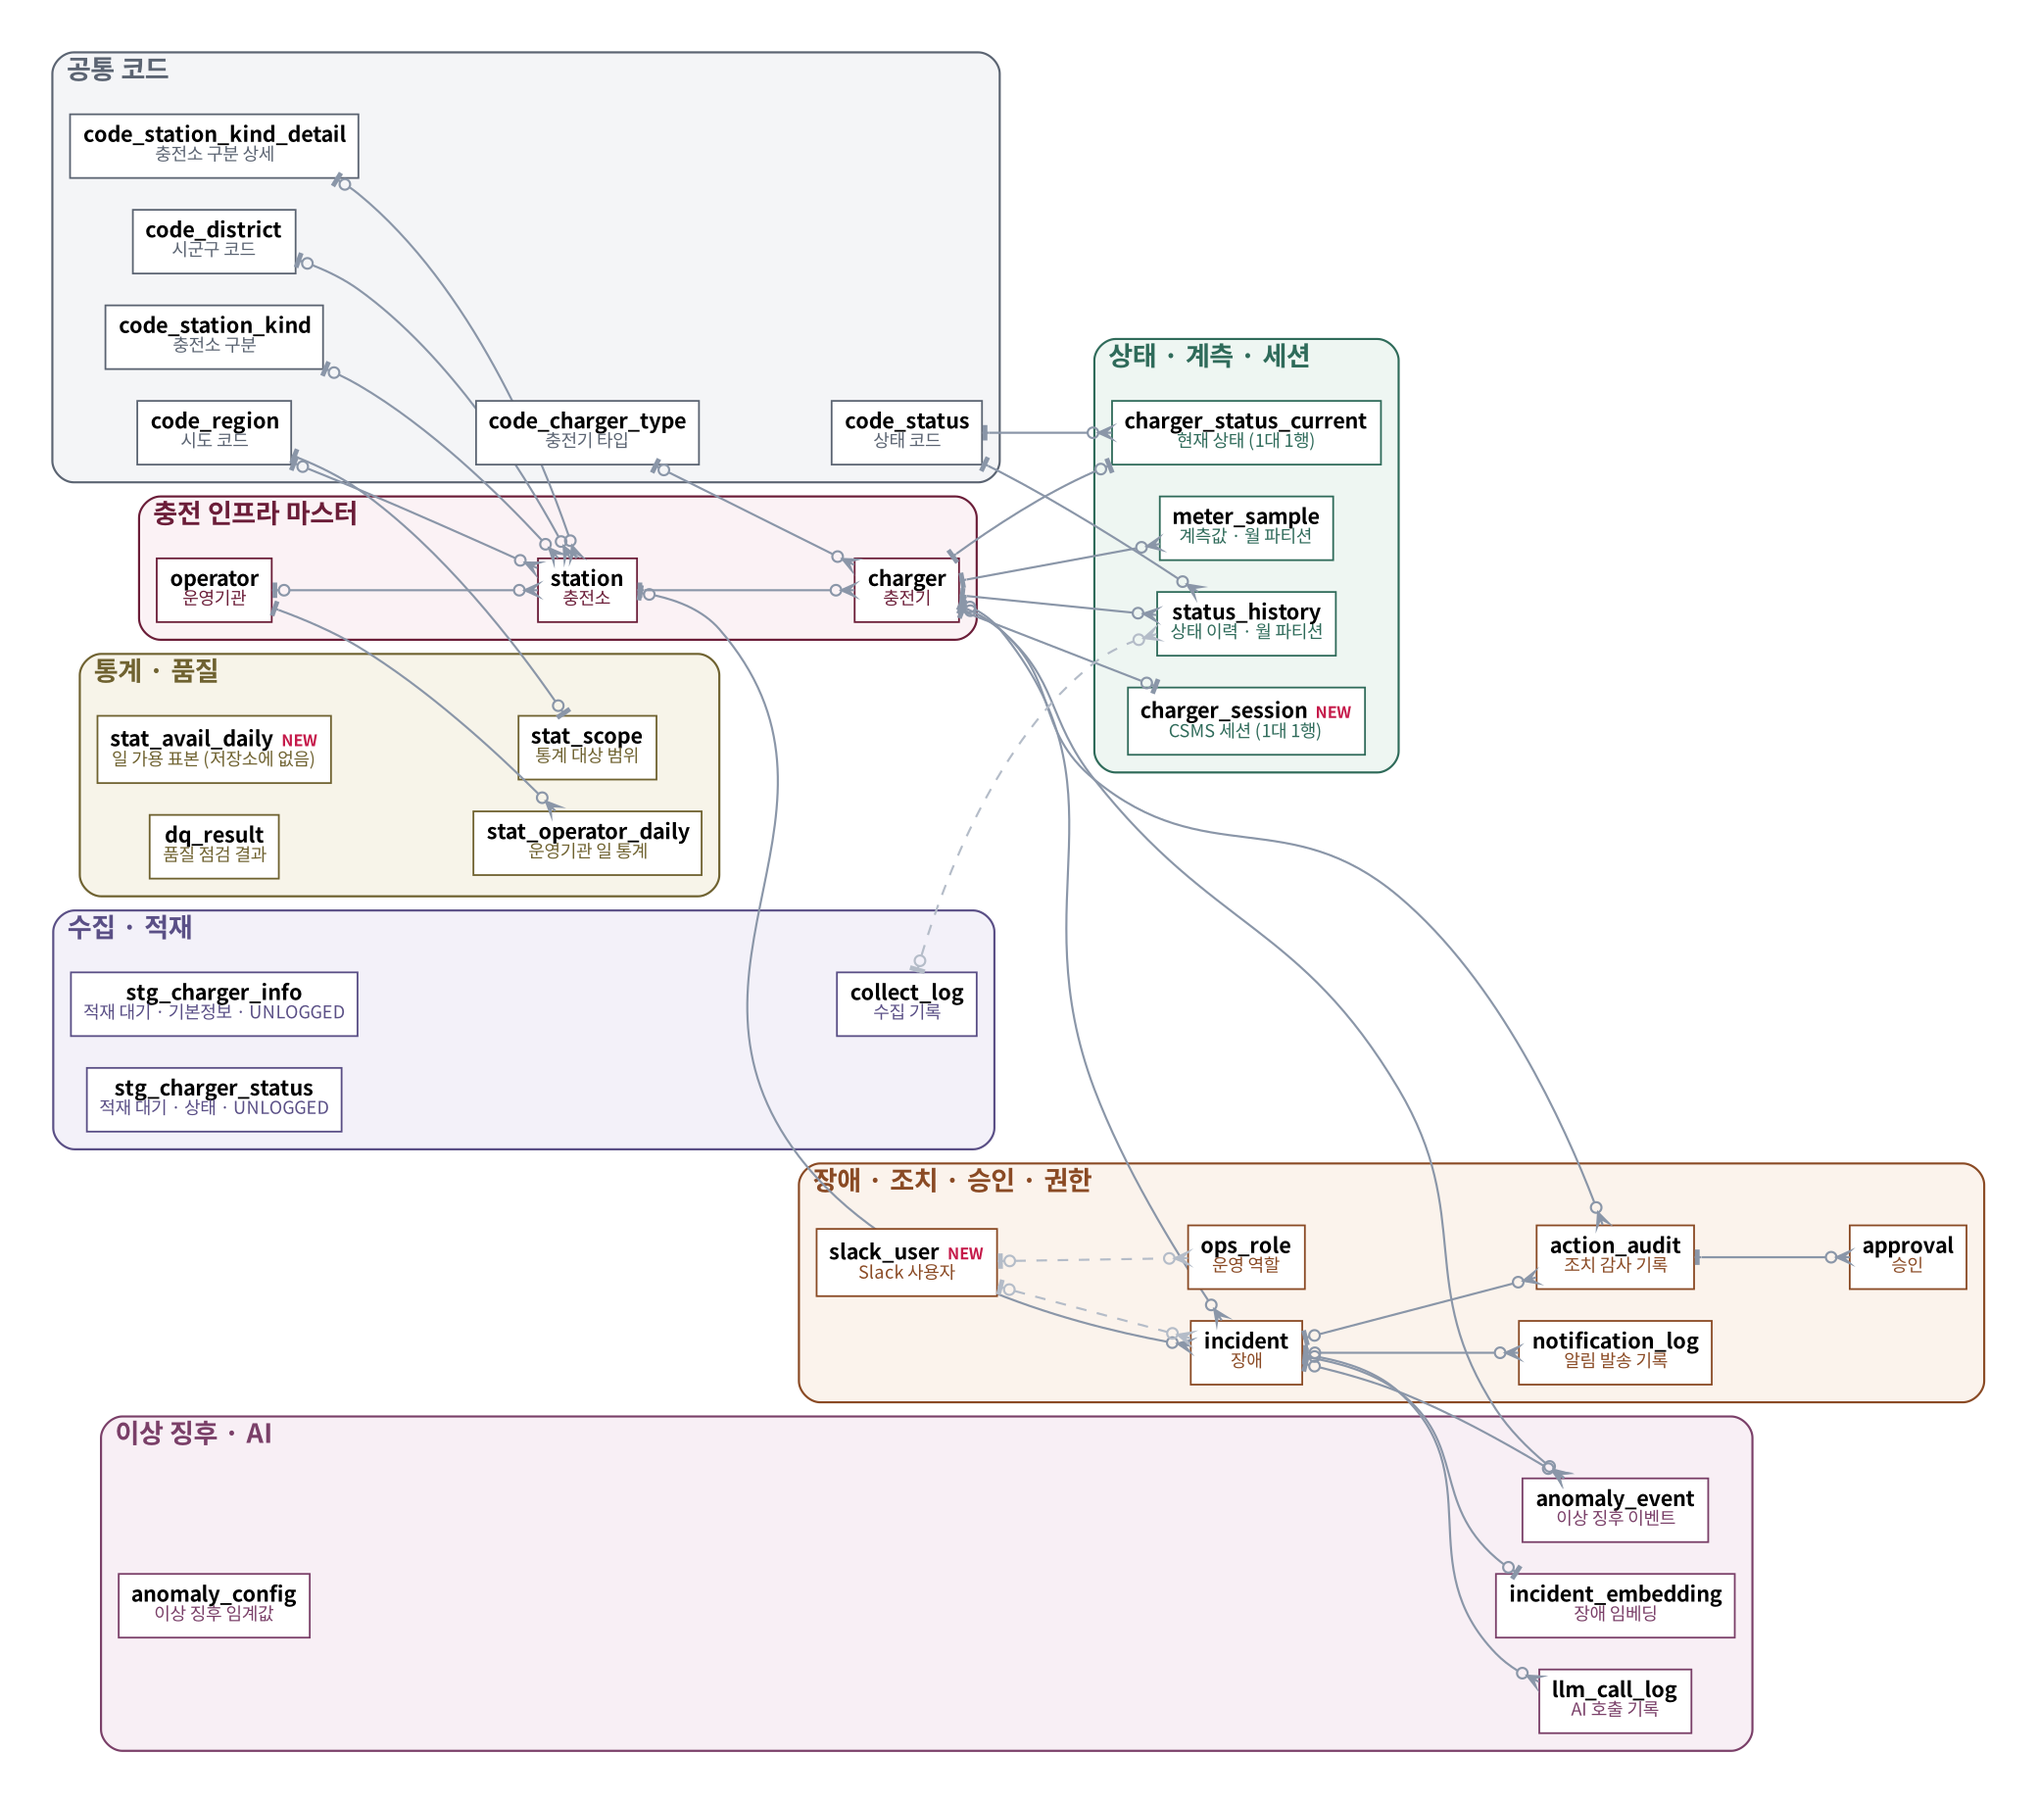
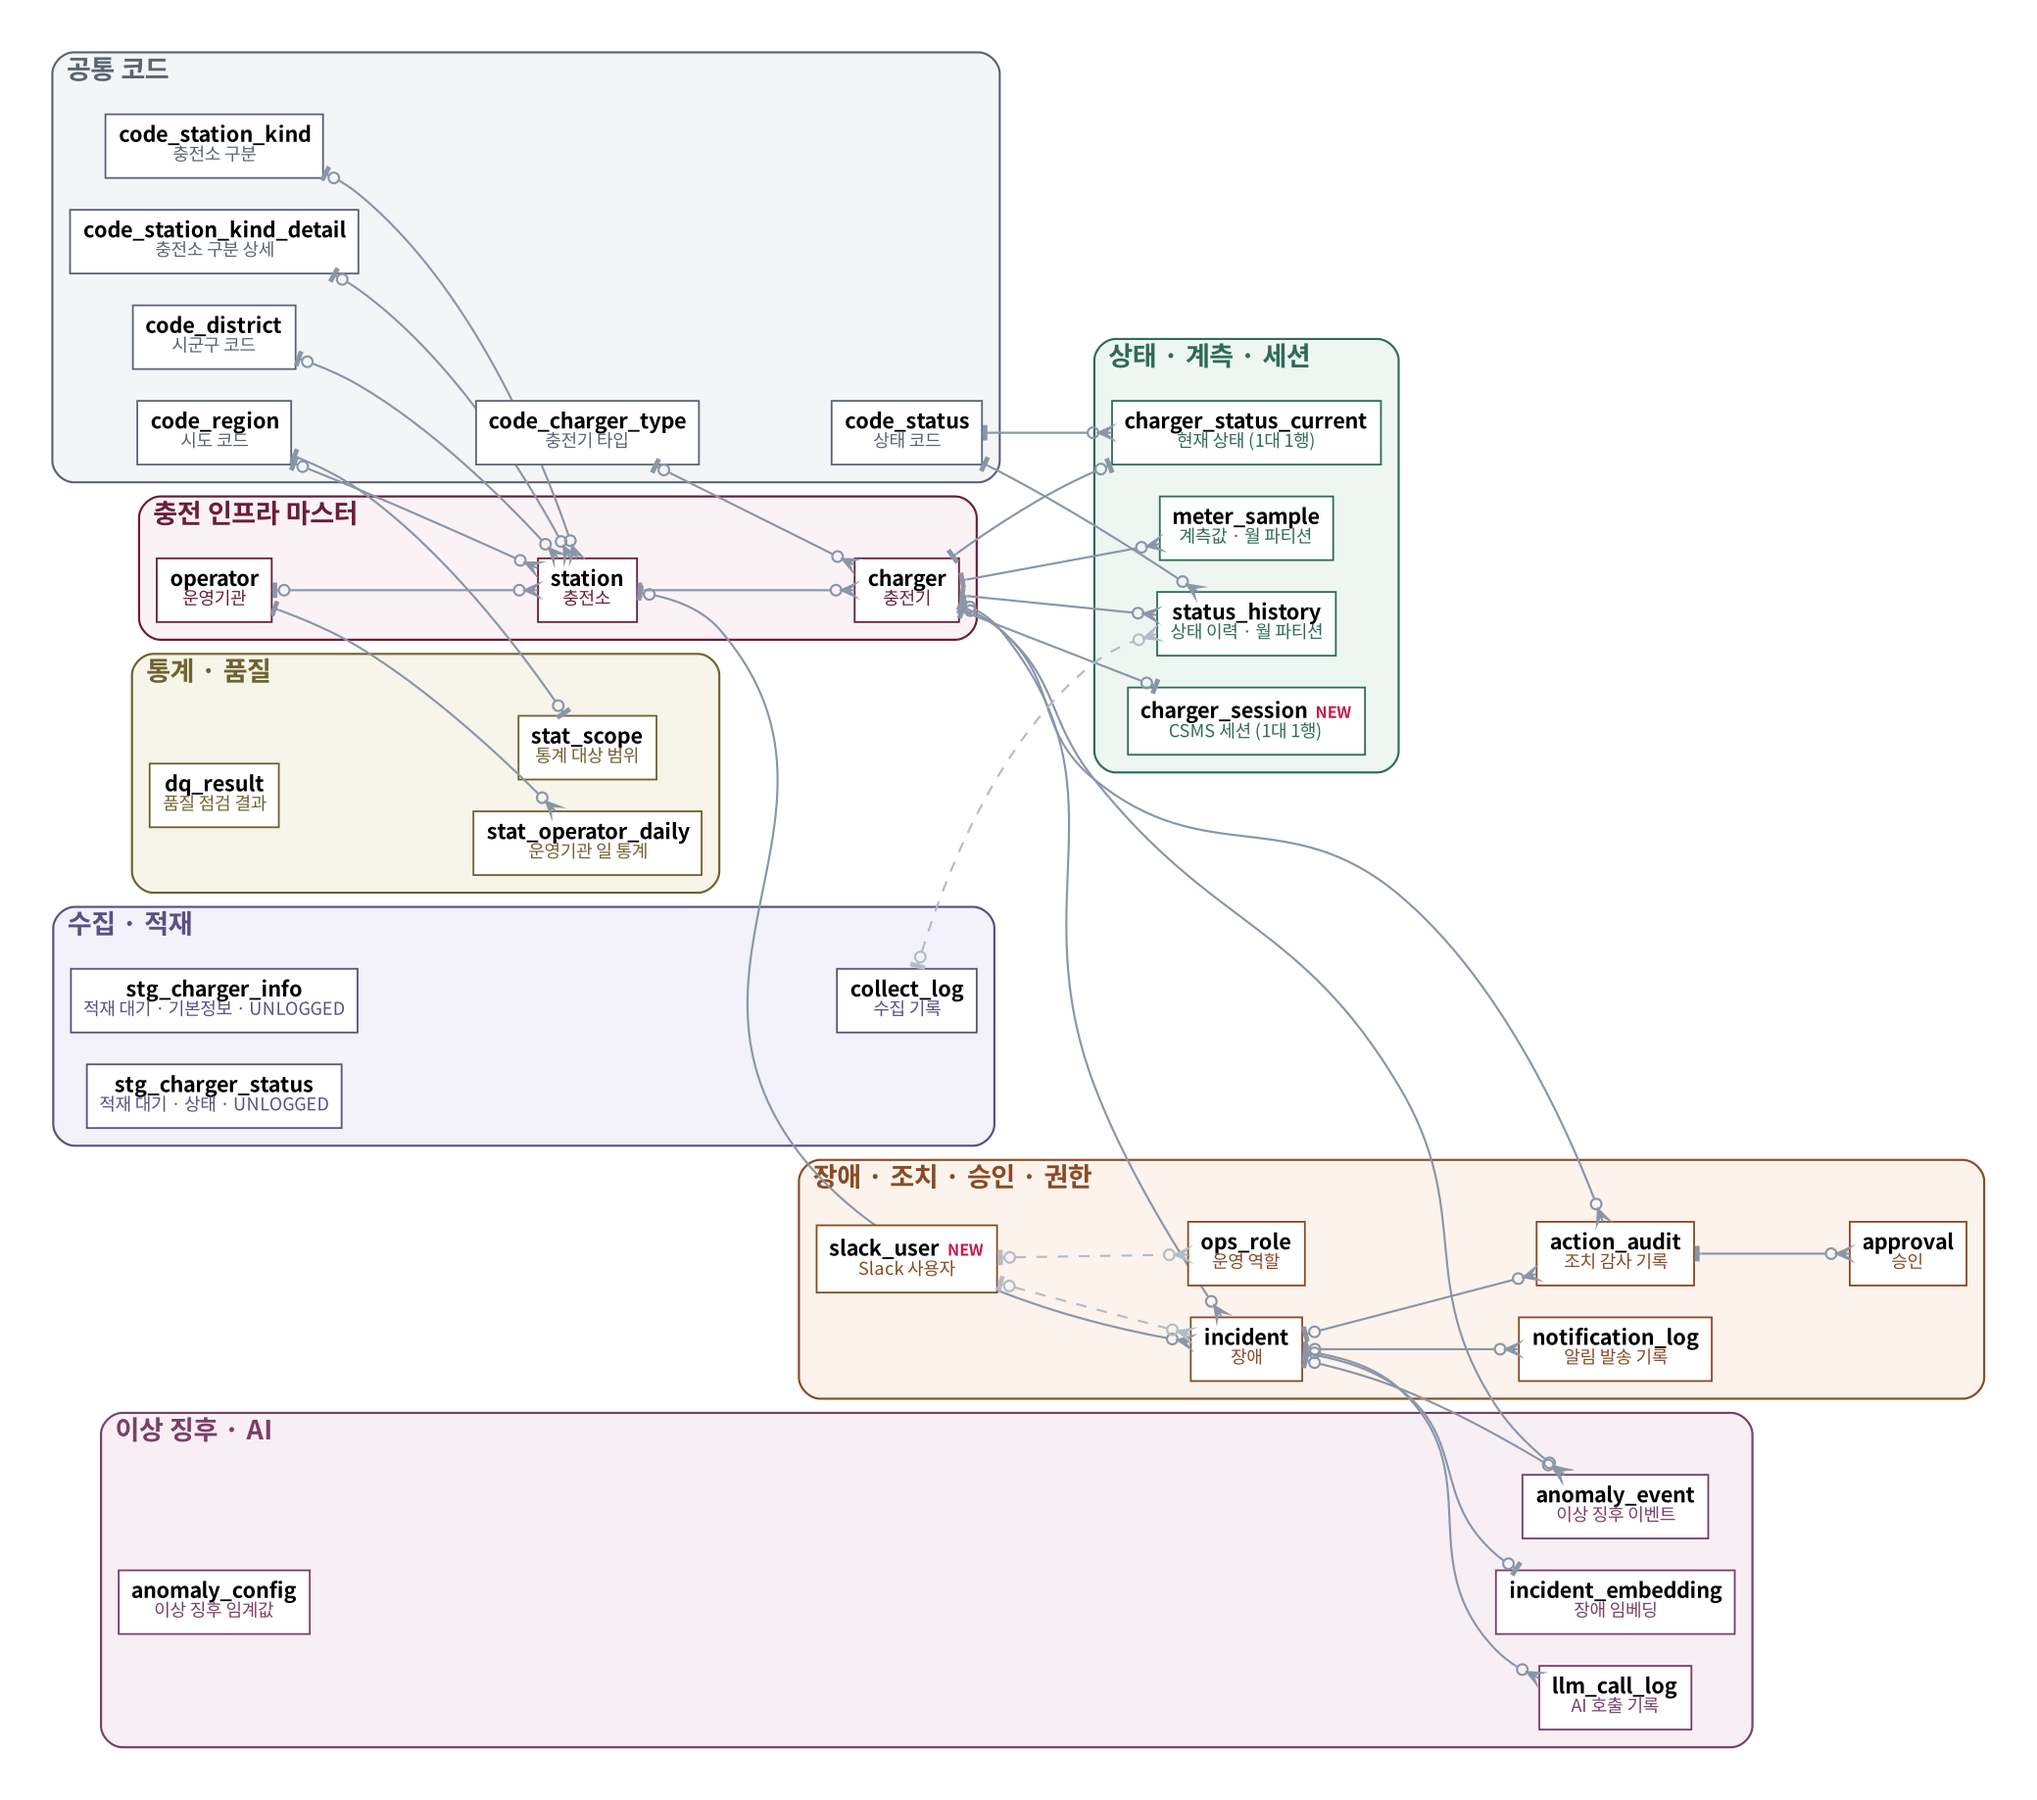
docs(db): stat_avail_daily 제거 반영 — 테이블 29개 (WBS 1.4)

diff --git a/docs/db/table-definitions.md b/docs/db/table-definitions.md
@@ -8,12 +8,12 @@
 
 | 구분 | 내용 | 비고 |
 |---|---|---|
-| 테이블 추가 | `charger_session` 충전기 세션 · `slack_user` Slack 사용자 · `stat_avail_daily` 일 가용 표본 | 30개 (v1.1 은 27개) |
+| 테이블 추가 | `charger_session` 충전기 세션 · `slack_user` Slack 사용자 | 29개 (v1.1 은 27개) |
 | 컬럼 추가 | `incident` 에 `acked_by` · `cause_code` · `detail` · `slack_permalink` | 운영 대시보드 · Slack 연결 |
 | 뷰 추가 | 운영 화면용 `v_ops_*` 5개 · `v_charger_card` · `v_fault_duration_daily` | 뷰 · 구체화 뷰 15개 |
 | 관계 | 외래 키 25개 (`charger_session` → `charger` 추가) | |
 | 임베딩 차원 | `incident_embedding.embedding` = `vector(1024)` (bge-m3) | v1.1 의 결정 ⑦(768/1024) → 1024 로 확정 |
-| **저장소에 없는 객체** | `stat_avail_daily` · `fn_add_avail_sample` 은 서버에만 있고 `db/` 마이그레이션에 없음. 부르는 곳도 없음 (0건) | 쓸지 · 지울지 팀 결정 → 쓰면 마이그레이션 추가 |
+| 정리 (10/23) | 서버에만 있고 쓰는 곳이 없던 `stat_avail_daily`(전국 가용 표본) · `fn_add_avail_sample` 제거 — 통계 범위를 제주(`stat_scope`) 하나로 통일 | 정밀 계산 방식(`mv_daily_uptime` · `stat_operator_daily`)만 유지 |
 | 별도 스키마 | `refined` (charger · station · status_daily · status_event) — 정제 예제 결과, 다시 실행하면 새로 만듦 | 운영 정의서 범위 밖 |
 
 ## ERD 그림 (v1.2 · 서버 기준)
@@ -33,7 +33,7 @@
 
 ## 1. 테이블 목록
 
-테이블 30개, 관계(외래 키) 25개, 뷰 · 구체화 뷰 15개.
+테이블 29개, 관계(외래 키) 25개, 뷰 · 구체화 뷰 15개.
 
 | # | 영역 | 테이블 | 한글 이름 | 컬럼 | 기본 키 | 물리 설계 |
 |---|---|---|---|---|---|---|
@@ -65,8 +65,7 @@
 | 26 | 이상 징후 · AI | [`incident_embedding`](#incident_embedding) | 장애 임베딩 | 3 | `incident_id` |  |
 | 27 | 통계 · 품질 | [`stat_scope`](#stat_scope) | 통계 대상 범위 | 2 | `region_code` |  |
 | 28 | 통계 · 품질 | [`stat_operator_daily`](#stat_operator_daily) | 운영기관별 일 통계 | 7 | `operator_id`, `day` |  |
-| 29 | 통계 · 품질 | [`stat_avail_daily`](#stat_avail_daily) `NEW` | 운영기관 · 지역 일 가용 표본 | 6 | `day`, `operator_id`, `region_code` |  |
-| 30 | 통계 · 품질 | [`dq_result`](#dq_result) | 데이터 품질 점검 결과 | 6 | `check_date`, `check_name` |  |
+| 29 | 통계 · 품질 | [`dq_result`](#dq_result) | 데이터 품질 점검 결과 | 6 | `check_date`, `check_name` |  |
 
 ## 2. 관계 (외래 키)
 
@@ -640,19 +639,6 @@
 | 6 | `fault_cnt` | 고장 건수 | `int` | NULL |  |  |  |
 | 7 | `long_fault_cnt` | 장기 고장 건수 | `int` | NULL |  |  |  |
 
-#### stat_avail_daily
-
-**운영기관 · 지역 일 가용 표본** `NEW` — (주석 없음)
-
-| # | 컬럼 | 한글 이름 | 타입 | NULL | 기본값 | 키 | 설명 |
-|---|---|---|---|---|---|---|---|
-| 1 | `day` | 날짜 | `date` | NOT NULL |  | PK |  |
-| 2 | `operator_id` | 운영기관 | `text` | NOT NULL |  | PK |  |
-| 3 | `region_code` | 시도 | `text` | NOT NULL |  | PK |  |
-| 4 | `up_samples` | 가용 표본 수 | `bigint` | NOT NULL | `0` |  |  |
-| 5 | `all_samples` | 전체 표본 수 | `bigint` | NOT NULL | `0` |  |  |
-| 6 | `snaps` | 스냅샷 횟수 | `int` | NOT NULL | `0` |  |  |
-
 #### dq_result
 
 **데이터 품질 점검 결과** — 데이터 품질 점검 결과 (하루 1회, 항목별 점수 0~1)
@@ -688,13 +674,12 @@
 
 ## 5. 함수 (public)
 
-함수 22개 (pgvector · pg_stat_statements 확장 함수 제외).
+함수 21개 (pgvector · pg_stat_statements 확장 함수 제외).
 
 | 함수 | 설명 |
 |---|---|
 | `_register_codes` | (내부용) 처음 보는 코드를 (가이드 미등록)으로 등록하고 그 목록을 돌려줌 |
 | `create_status_history_partition` | 그 날짜가 속한 달의 상태 이력 파티션을 만든다. 그 달의 행이 기본 파티션에 이미 있으면 실패한다 |
-| `fn_add_avail_sample` `NEW` (저장소에 없음) |  |
 | `fn_block_audit_change` |  |
 | `fn_cause_label` |  |
 | `fn_detect_anomaly` | 이상 징후 감지 (1분마다). SECURITY DEFINER: app_reader 가 실행만 할 수 있게 |
